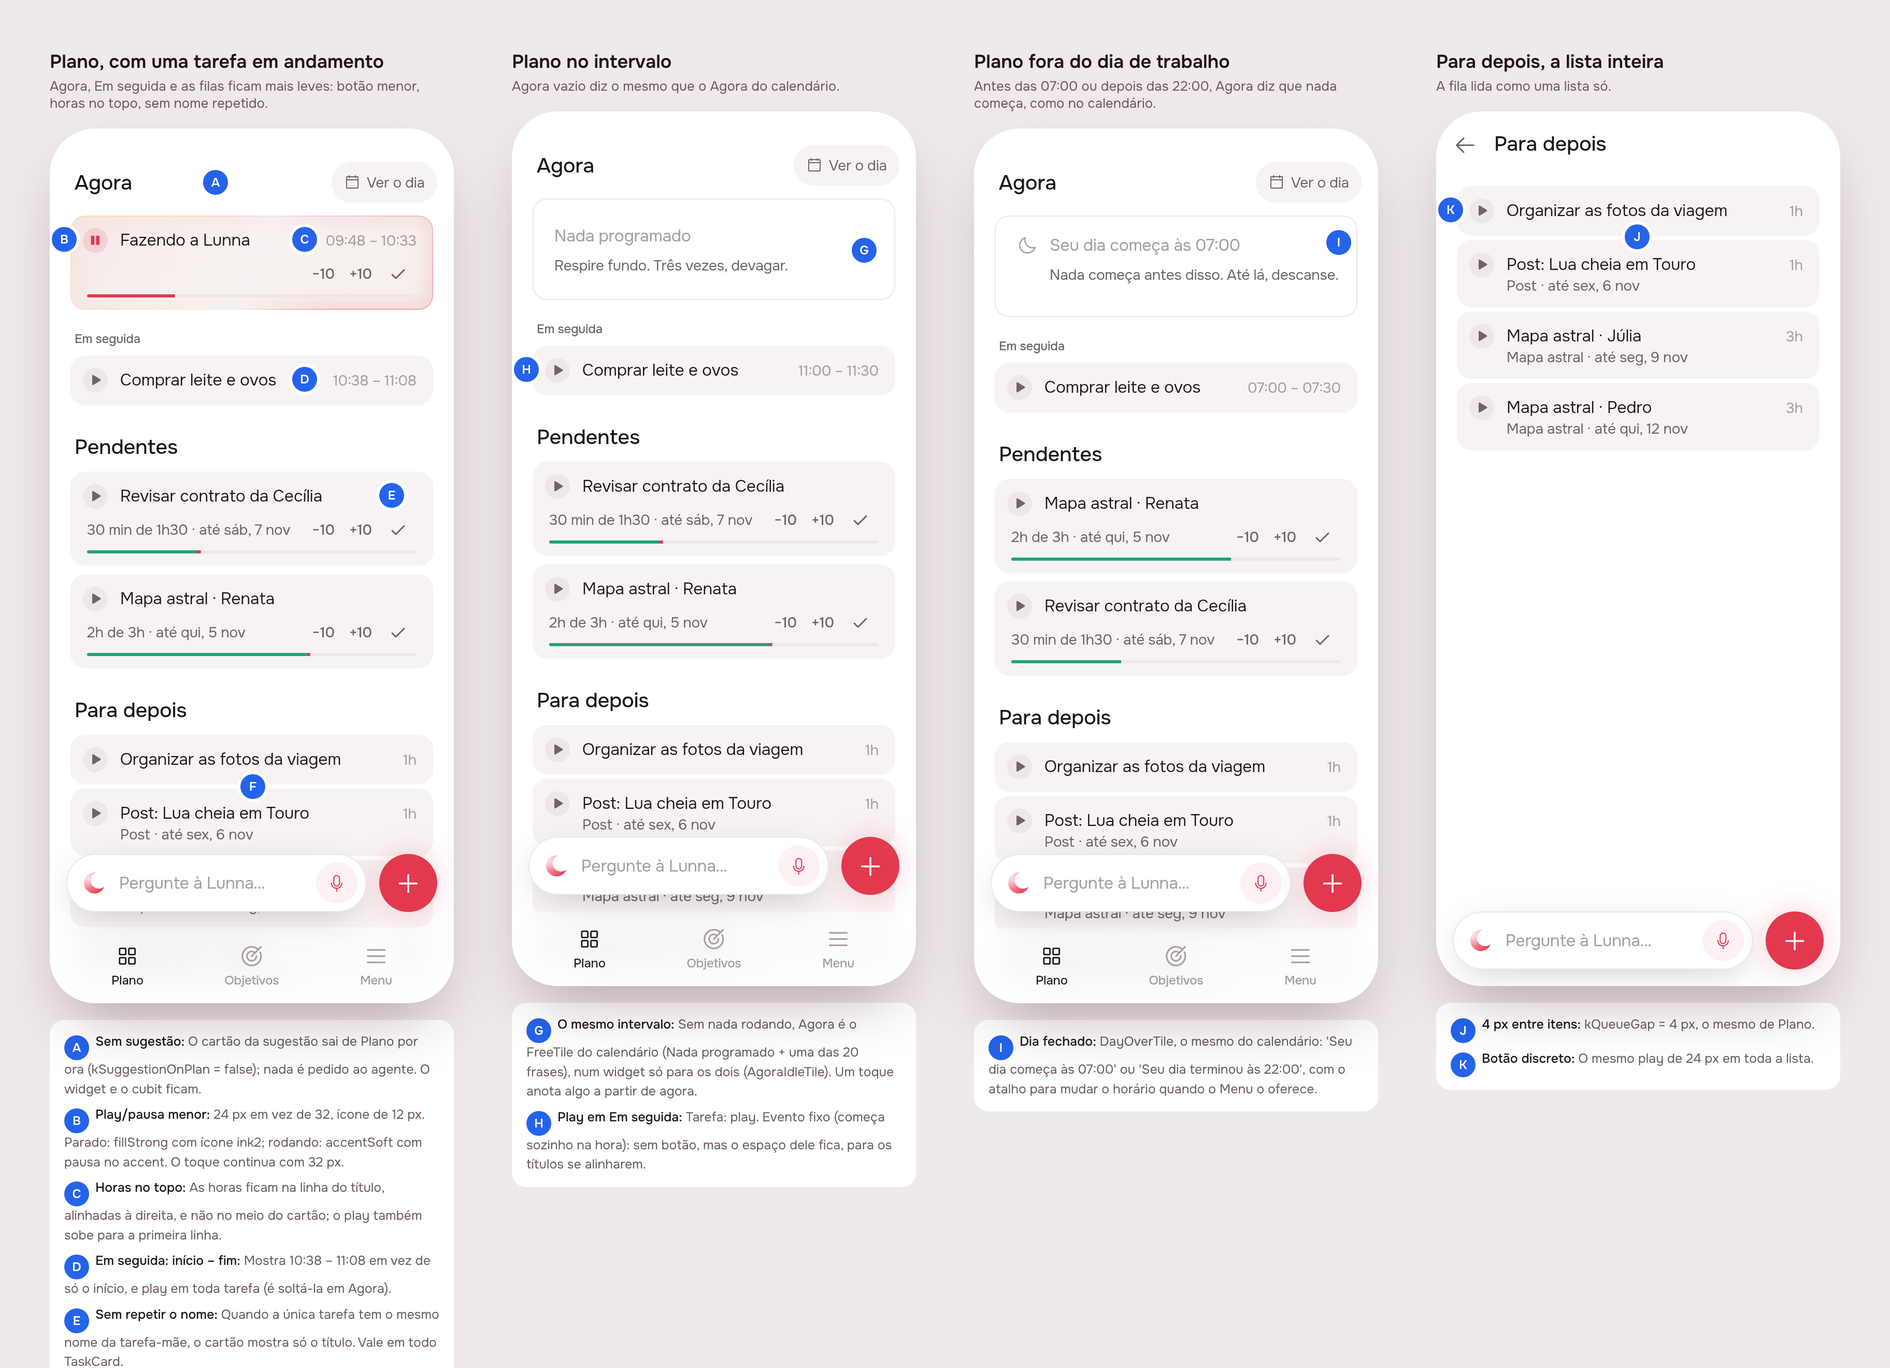
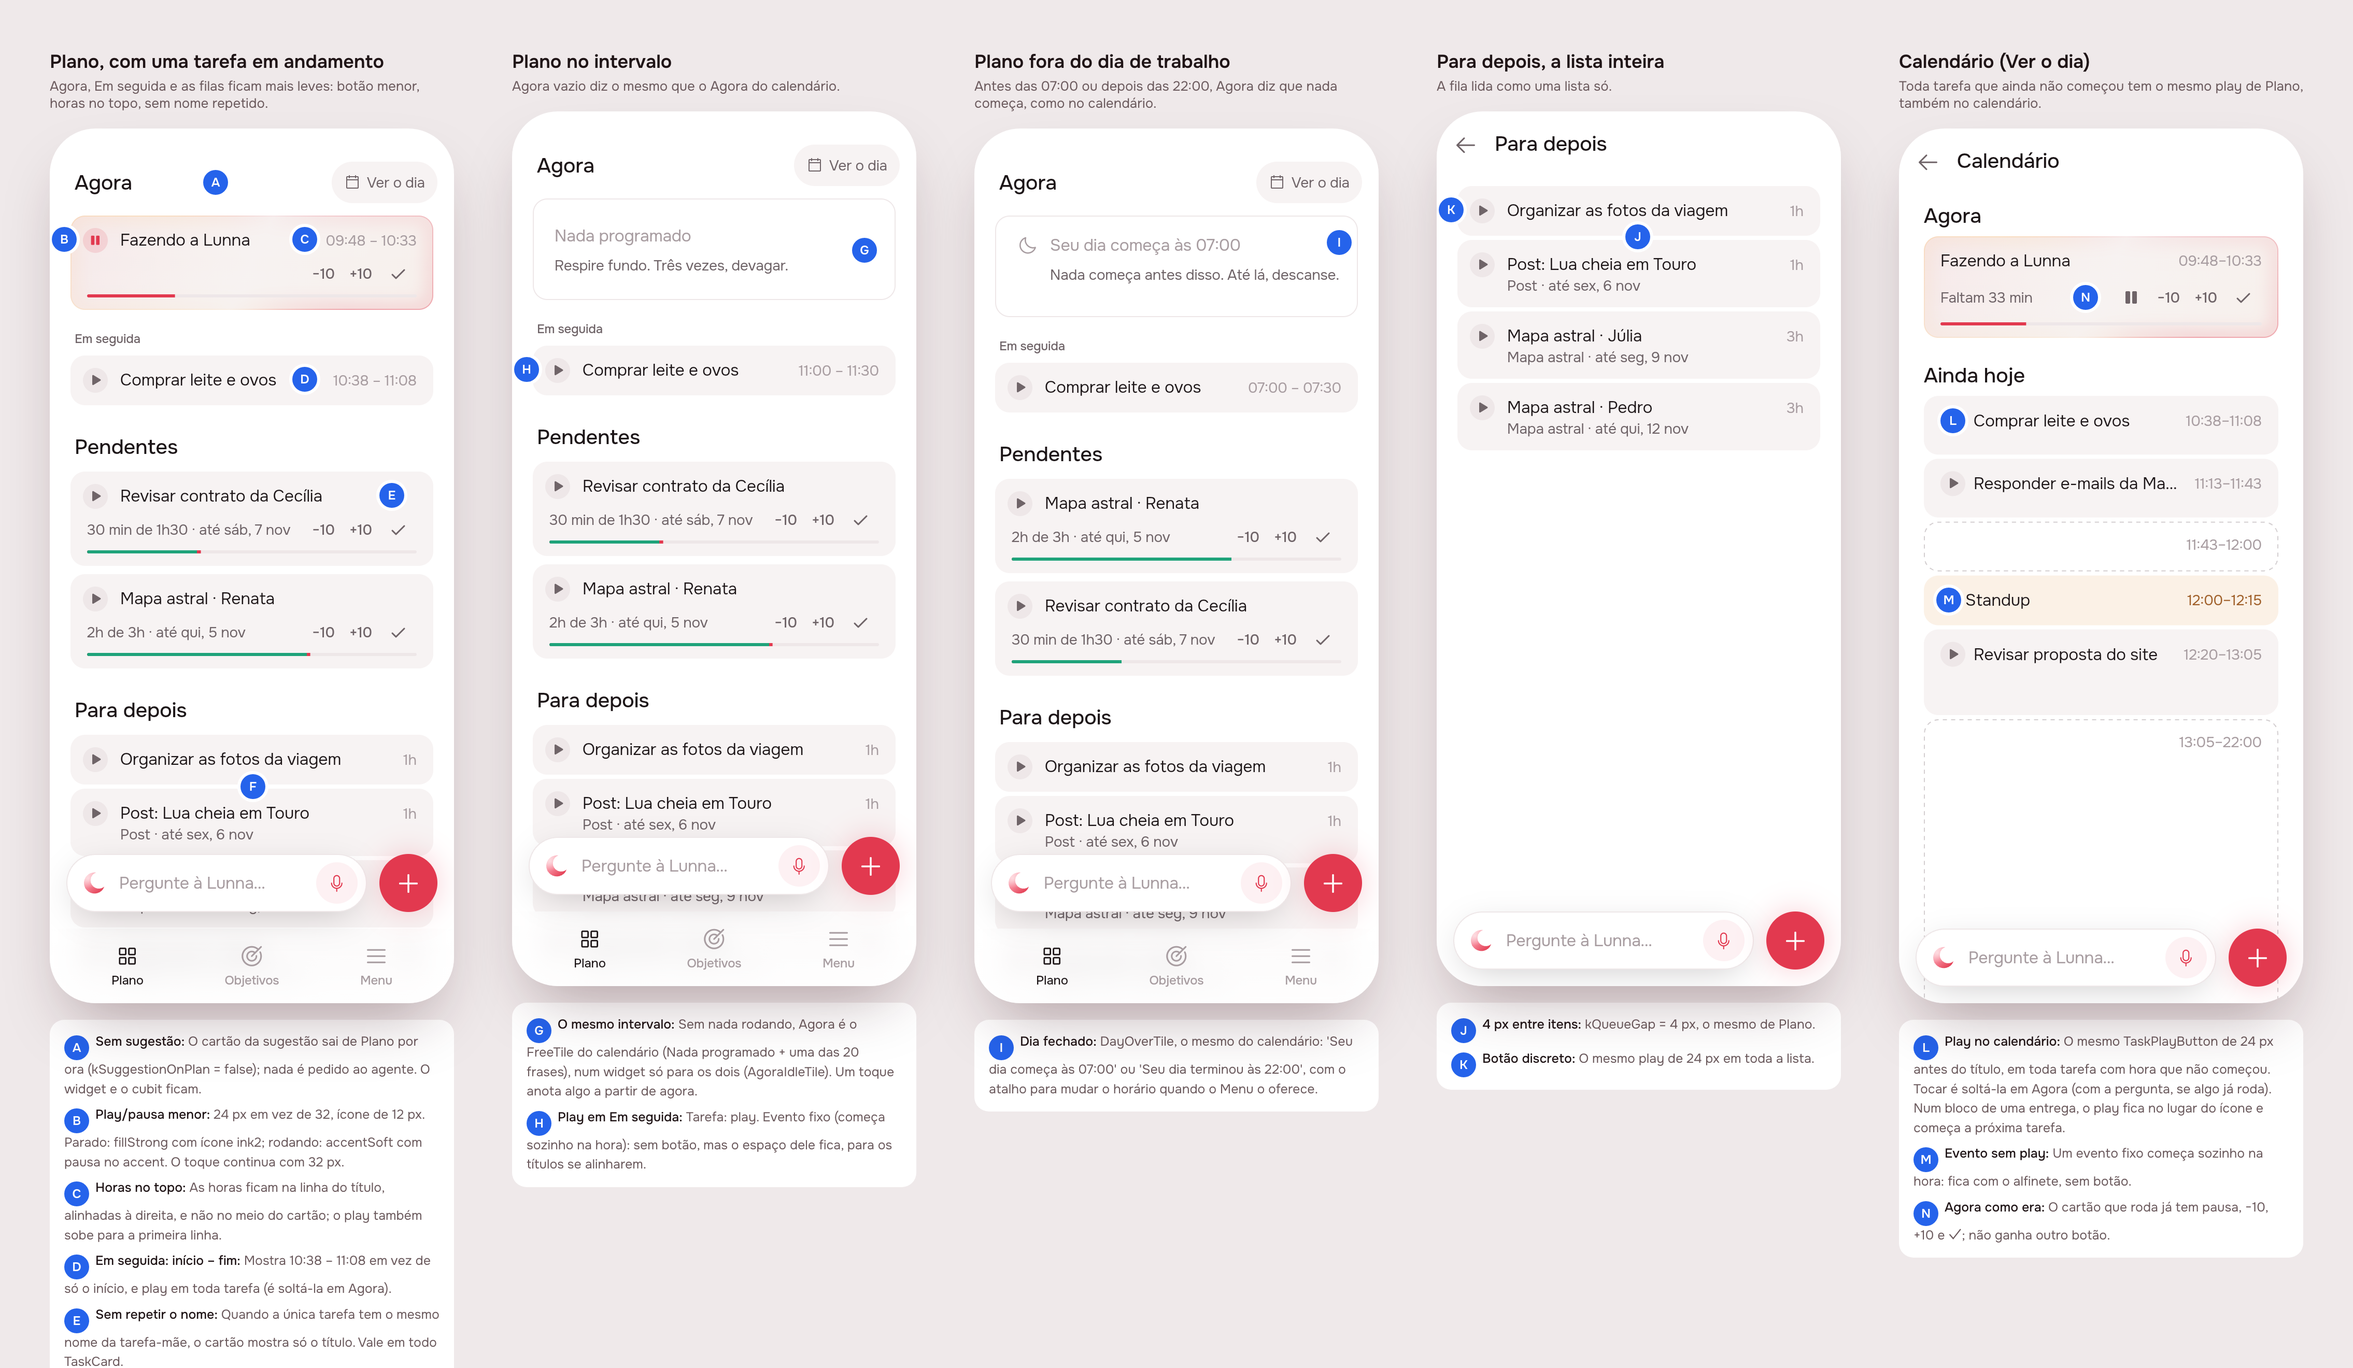
create(#79): revise · Improve UX and UI: Part 1

diff --git a/app/lib/ux_part_1_preview.dart b/app/lib/ux_part_1_preview.dart
@@ -16,7 +16,8 @@ import 'package:timeline/timeline.dart';
 /// Preview of #79 (UX and UI, part 1), on fakes. Not committed.
 ///
 /// `?s=1` Plano with a task running; `?s=2` Plano on the break; `?s=3`
-/// Plano before the working day opens; `?s=4` Para depois whole.
+/// Plano before the working day opens; `?s=4` Para depois whole; `?s=5`
+/// the calendar (Ver o dia) with a task running, play on what is next.
 void main() {
   final scene = int.tryParse(Uri.base.queryParameters['s'] ?? '') ?? 1;
   final today = DateTime.now();
@@ -65,7 +66,7 @@ class _FakesState extends State<_Fakes> {
   late final DemoTimelineRepository _timeline = () {
     final repo = DemoTimelineRepository(
       context.l10n,
-      resting: widget.scene != 1,
+      resting: widget.scene != 1 && widget.scene != 5,
     );
     // On the break, nothing waits at this minute: the groceries keep an
     // hour of their own, at eleven.
@@ -76,6 +77,23 @@ class _FakesState extends State<_Fakes> {
           'mercado',
           0,
           after: DateTime(now.year, now.month, now.day, 11),
+        ),
+      );
+    }
+    // On the calendar, a few more tasks queued after the groceries.
+    if (widget.scene == 5) {
+      unawaited(
+        repo.createTask(
+          title: 'Responder e-mails da Marina',
+          minutes: 30,
+          placement: const Placement.queue(99),
+        ),
+      );
+      unawaited(
+        repo.createTask(
+          title: 'Revisar proposta do site',
+          minutes: 45,
+          placement: const Placement.queue(99),
         ),
       );
     }
@@ -161,7 +179,11 @@ class _FakesState extends State<_Fakes> {
             ),
           ),
         ],
-        child: widget.scene == 4 ? const LaterPage() : const _Plano(),
+        child: switch (widget.scene) {
+          4 => const LaterPage(),
+          5 => const _Day(),
+          _ => const _Plano(),
+        },
       ),
     );
   }
@@ -190,6 +212,28 @@ class _Plano extends StatelessWidget {
           AppBottomBarItem(iconData: AppIcons.menu, label: l10n.shellMenuTab),
         ],
       ),
+    );
+  }
+}
+
+class _Day extends StatelessWidget {
+  const _Day();
+
+  @override
+  Widget build(BuildContext context) {
+    final l10n = context.l10n;
+    return Scaffold(
+      appBar: AppBar(
+        leading: AppIconButton(iconData: AppIcons.back, onPressed: () {}),
+        titleSpacing: 0,
+        title: Text(l10n.dayPageTitle, style: AppTypography.title),
+      ),
+      body: TimelineList(onCardTap: (_) {}, onDeliveryTap: (_) {}),
+      floatingActionButton: AskDock(
+        fab: AppFab(tooltip: l10n.shellWriteDown, onPressed: () {}),
+      ),
+      floatingActionButtonLocation: AskDock.location,
+      floatingActionButtonAnimator: AskDock.animator,
     );
   }
 }

diff --git a/app/packages/timeline/lib/src/widgets/event_tile.dart b/app/packages/timeline/lib/src/widgets/event_tile.dart
@@ -5,6 +5,7 @@ import 'package:timeline/src/models/models.dart';
 import 'package:timeline/src/widgets/checklist.dart';
 import 'package:timeline/src/widgets/format.dart';
 import 'package:timeline/src/widgets/now_surface.dart';
+import 'package:timeline/src/widgets/task_card.dart';
 
 /// {@template event_tile}
 /// One card on the timeline: a block of time.
@@ -38,9 +39,15 @@ import 'package:timeline/src/widgets/now_surface.dart';
 /// a line per item, every item one under another. Agora draws the next one
 /// alone. Items are ticked off on the block's own page.
 ///
-/// It carries no gestures of its own. Tapping and dragging on the timeline
-/// are read by one listener over the whole list, which tells each card how it
-/// is being touched through [pressed], [hidden], and [lifted].
+/// A task on the calendar that has not begun draws the play button
+/// before its title ([onPlay]), the same small one as Plano's: playing it
+/// is letting it go on Agora. An event has none, since it begins at its
+/// hour by itself.
+///
+/// It carries no gestures of its own but that button. Tapping and dragging
+/// on the timeline are read by one listener over the whole list, which
+/// tells each card how it is being touched through [pressed], [hidden], and
+/// [lifted].
 /// {@endtemplate}
 class EventTile extends StatelessWidget {
   /// {@macro event_tile}
@@ -57,6 +64,7 @@ class EventTile extends StatelessWidget {
     this.onDone,
     this.onStarted,
     this.onSnoozed,
+    this.onPlay,
     super.key,
   });
 
@@ -107,6 +115,11 @@ class EventTile extends StatelessWidget {
 
   /// Gives a waiting block fifteen minutes more.
   final VoidCallback? onSnoozed;
+
+  /// Begins it from the calendar: drawn as [TaskPlayButton] before the
+  /// title, under [actionsKey], on a card that is not on Agora (which has
+  /// its own controls).
+  final VoidCallback? onPlay;
 
   /// Whether this is the block being lived through.
   bool get _isNow => card.section == TimelineSection.agora;
@@ -182,6 +195,14 @@ class EventTile extends StatelessWidget {
         children: [
           Row(
             children: [
+              if (onPlay != null && !_isNow) ...[
+                TaskPlayButton(
+                  key: actionsKey,
+                  playing: false,
+                  onPressed: onPlay,
+                ),
+                const SizedBox(width: AppSpacing.s2),
+              ],
               // The mark comes before the title, where it reads as "this one
               // is a meeting" or "this one is pinned", rather than after it,
               // where it would read as a status the block had earned.

diff --git a/app/packages/timeline/lib/src/widgets/delivery_tile.dart b/app/packages/timeline/lib/src/widgets/delivery_tile.dart
@@ -7,6 +7,7 @@ import 'package:timeline/src/models/models.dart';
 import 'package:timeline/src/widgets/event_tile.dart';
 import 'package:timeline/src/widgets/format.dart';
 import 'package:timeline/src/widgets/now_surface.dart';
+import 'package:timeline/src/widgets/task_card.dart';
 
 /// {@template delivery_tile}
 /// A run of one delivery's tasks, drawn as one card: the delivery is the
@@ -53,6 +54,7 @@ class DeliveryTile extends StatelessWidget {
     this.onDone,
     this.onStarted,
     this.onSnoozed,
+    this.onPlay,
     super.key,
   });
 
@@ -108,6 +110,10 @@ class DeliveryTile extends StatelessWidget {
   /// Gives the task waiting in Agora fifteen minutes more.
   final VoidCallback? onSnoozed;
 
+  /// Begins the run's next task, from the calendar: a play button in place
+  /// of the delivery's mark, under [actionsKey]. Not drawn on Agora.
+  final VoidCallback? onPlay;
+
   bool get _isNow => tasks.first.section == TimelineSection.agora;
 
   TimelineEvent get _next => tasks.first;
@@ -136,6 +142,14 @@ class DeliveryTile extends StatelessWidget {
                   )
                 : '${hhmm(_next.startTime)}–${hhmm(tasks.last.endTime)}',
             routine: routine,
+            // On the calendar, play begins the run's next task.
+            play: _isNow || onPlay == null
+                ? null
+                : TaskPlayButton(
+                    key: actionsKey,
+                    playing: false,
+                    onPressed: onPlay,
+                  ),
           ),
           const SizedBox(height: AppSpacing.s1),
           if (height == null)
@@ -277,22 +291,27 @@ class _Head extends StatelessWidget {
     required this.title,
     required this.hours,
     required this.routine,
+    this.play,
   });
 
   final String title;
   final String hours;
   final bool routine;
 
+  /// The play button, drawn in place of the mark.
+  final Widget? play;
+
   @override
   Widget build(BuildContext context) {
     final quiet = routine ? AppColors.routineInk : AppColors.ink3;
     return Row(
       children: [
-        AppIcon(
-          iconData: routine ? AppIcons.repeat : AppIcons.artifacts,
-          size: AppSpacing.s4,
-          color: quiet,
-        ),
+        play ??
+            AppIcon(
+              iconData: routine ? AppIcons.repeat : AppIcons.artifacts,
+              size: AppSpacing.s4,
+              color: quiet,
+            ),
         const SizedBox(width: AppSpacing.s2),
         Expanded(
           child: Text(

diff --git a/app/packages/timeline/test/timeline_list_test.dart b/app/packages/timeline/test/timeline_list_test.dart
@@ -1150,6 +1150,64 @@ void main() {
   });
 
   group('the calendar', () {
+    testAt('play on a task later in the day begins it, as a drop on Agora', (
+      tester,
+    ) async {
+      final (bloc, tapped) = await pump(tester, [running, later]);
+
+      // Agora has its own controls; the later task has the one play.
+      final play = find.byType(TaskPlayButton);
+      expect(play, findsOneWidget);
+      await tester.tap(play);
+      await tester.pump(const Duration(milliseconds: 400));
+
+      verify(
+        () => bloc.add(const EventMoved(id: 'b', index: 0, start: true)),
+      ).called(1);
+      expect(tapped, isEmpty);
+    });
+
+    testAt('an event has no play: it begins at its hour', (tester) async {
+      final meeting = TimelineEvent(
+        id: 'm',
+        title: 'Reunião',
+        section: TimelineSection.dia,
+        startTime: now.add(const Duration(minutes: 30)),
+        endTime: now.add(const Duration(minutes: 60)),
+        durationMinutes: 30,
+        kind: CardKind.event,
+        fixed: true,
+      );
+      await pump(tester, [running, meeting]);
+
+      expect(find.byType(TaskPlayButton), findsNothing);
+    });
+
+    testAt('play on a delivery run begins its next task', (tester) async {
+      TimelineEvent step(String id, int from) => TimelineEvent(
+        id: id,
+        title: 'Passo $id',
+        section: TimelineSection.dia,
+        startTime: now.add(Duration(minutes: from)),
+        endTime: now.add(Duration(minutes: from + 30)),
+        durationMinutes: 30,
+        artifactId: 'site',
+        artifactTitle: 'Site da Ana',
+      );
+      final (bloc, _) = await pump(tester, [
+        running,
+        step('s1', 25),
+        step('s2', 60),
+      ]);
+
+      await tester.tap(find.byType(TaskPlayButton));
+      await tester.pump(const Duration(milliseconds: 400));
+
+      verify(
+        () => bloc.add(const EventMoved(id: 's1', index: 0, start: true)),
+      ).called(1);
+    });
+
     testAt('heads a day past tomorrow with its weekday and date', (
       tester,
     ) async {

diff --git a/app/packages/timeline/lib/src/view/timeline_list.dart b/app/packages/timeline/lib/src/view/timeline_list.dart
@@ -2327,8 +2327,20 @@ class _TimelineListState extends State<TimelineList> {
       onDone: () => bloc.add(EventFinished(card.id)),
       onStarted: () => bloc.add(EventStarted(card.id)),
       onSnoozed: () => bloc.add(EventSnoozed(card.id)),
+      onPlay: _plays(card) ? () => _now(card) : null,
     );
   }
+
+  /// Whether [card] draws a play button: a task with an hour, on the
+  /// calendar, that has not begun and is not on Agora. Playing it is
+  /// letting it go on Agora ([_now]), guard and all.
+  bool _plays(TimelineEvent card) =>
+      !_isList &&
+      card.isTask &&
+      card.isInteractive &&
+      !card.started &&
+      !card.isBacklog &&
+      card.section != TimelineSection.agora;
 
   /// The free stretches as they are drawn, each under its heading.
   ///
@@ -2459,6 +2471,9 @@ class _TimelineListState extends State<TimelineList> {
       height: height,
       lineKeys: keys,
       hidden: dragging,
+      actionsKey: _actionKeys.putIfAbsent(lead.id, GlobalKey.new),
+      // Play begins the run's next task, as it does on Plano.
+      onPlay: _plays(lead) ? () => _now(lead) : null,
     );
   }
 

diff --git a/product/delivery/2026-11-03-ux-part-1/README.md b/product/delivery/2026-11-03-ux-part-1/README.md
@@ -17,6 +17,10 @@ UI: Part 1*:
 > - Disable suggestions for now (we will come to that later)
 > - Make the items in the queue with less spacing between each other
 
+The design was reviewed on the issue, and the person replied:
+
+> We should also have play buttons on calendar view
+
 ## 2. The design
 
 ![The board](img/mockup-board.png)
@@ -25,7 +29,8 @@ Drawn by the real app (Lunna) through `app/lib/ux_part_1_preview.dart`,
 on the demo's fakes; the pins are in [board.json](board.json). Screens:
 [1](img/mockup-1.png) a task running, [2](img/mockup-2.png) the break,
 [3](img/mockup-3.png) before the working day, [4](img/mockup-4.png) Para
-depois whole.
+depois whole, [5](img/mockup-5.png) the calendar (Ver o dia), added after
+the review.
 
 **References** (from known patterns; Mobbin was not browsed in this
 session): Structured's timeline rows (hours on the title's line, a small
@@ -43,6 +48,9 @@ doesn't compete with the title.
 | E | Repeated name | `TaskCard` drops a subtitle that only repeats the title (trimmed, case-insensitive). A delivery whose one task is itself shows its name once, everywhere the card is drawn. |
 | G | Agora empty | The calendar's break, the same widget: `AgoraIdleTile` (new, in `timeline`) is `FreeTile(now: true)` from now to the next card (*Nada programado* and one of the twenty lines), and a tap writes a task from now. Lista's break now draws through it too, so the two can't drift. Replaces *Nada em andamento*. |
 | I | Agora outside the day | `DayOverTile`, the calendar's: *Seu dia começa às 07:00* / *terminou às 22:00*, with the Menu's hours when the shell offers them (`OpenDayHours`). |
+| L | Play on the calendar | Every task with an hour that has not begun draws the same 24 px `TaskPlayButton` before its title (`EventTile.onPlay`). A tap is a drop on Agora (`EventMoved(start: true)`), so with something running it asks first (`GuardSheet`). A delivery's block on the calendar draws it in place of the folders and plays its next task (`DeliveryTile.onPlay`). Tapping it never opens the card nor starts a drag (it sits under the card's `actionsKey`). |
+| M | Events on the calendar | No play: an event begins at its hour. The pin stays; no empty slot is kept, since calendar cards are not a column of titles. |
+| N | Agora on the calendar | Unchanged: the running card already has pause, −10, +10 and ✓. |
 | F, J | Queue spacing | 4 px between Para depois's cards (was 8), on Plano and on its page (`kQueueGap`). Agora, Em seguida and Pendentes keep 8. |
 
 What Agora draws when something is in it was already the calendar's:
@@ -60,6 +68,12 @@ overtime to `EventTile`. The difference was only the empty state.
   while running, a 14 % tint instead), since "more discrete" read as both.
 - **The repeated-name rule lives in `TaskCard`**, not in each caller, so
   Pendentes, Agora, Em seguida and Para depois all follow it.
+- **Play on the calendar is for tasks not begun, off Agora and off the
+  backlog** (`_plays` in `timeline_list.dart`): the same set a nudge
+  reads. Lista (only the landing's demo draws it) gets none; the card in
+  the air while dragged draws none either.
+- **An event on the calendar keeps no empty play slot** (unlike Em
+  seguida's `keepPlaySlot`): its pin already sits where the button would.
 - **Suggestions are switched off on Plano only**: the landing's demo
   keeps its offer (it is the agent's chapter), and the server keeps
   making suggestions (`SuggestionTimer` still fires; nobody sees them).
@@ -82,7 +96,16 @@ session; the queue commits them):
 - `app/lib/plan/view/plan_items.dart`: `kQueueGap`;
   `app/lib/plan/view/later_page.dart` uses it.
 - `app/test/plan/home_page_test.dart`: the empty day expects `FreeTile`.
-- `app/lib/ux_part_1_preview.dart`: the preview entry point (scenes 1–4);
+- After the review (play on the calendar):
+  `app/packages/timeline/lib/src/widgets/event_tile.dart` (`onPlay`, the
+  button before the title), `delivery_tile.dart` (`onPlay`, in `_Head`
+  in place of the mark), `view/timeline_list.dart` (`_plays`, wired in
+  `_tile` and `_calendarRun`), and three tests in
+  `test/timeline_list_test.dart` (play begins a task without opening it,
+  none on an event, a delivery block plays its next task). The timeline
+  package's list, run and preview tests pass (86).
+- `app/lib/ux_part_1_preview.dart`: the preview entry point (scenes 1–5,
+  5 being the calendar with two more queued tasks);
   delete it in Phase 4.
 
 **What the build must still do** (app only; nothing on the server):
@@ -99,7 +122,11 @@ session; the queue commits them):
    `DayOverTile` outside the working day.
 4. Check that the smaller button still reads on Focus (lime `accentSoft`
    on dark) in the build prints, and on Agora's `NowSurface` glow.
-5. AGENTS.md "The app shell" says Plano opens with "the agent's one
+5. AGENTS.md "The timeline" (Calendário) and `product/spec/home.md`:
+   say a task not begun on the calendar has play, a drop on Agora.
+6. Shoot the calendar in both brands (scene 5) and check the button on
+   Focus's dark fill and on a routine's or a short (30 min) card.
+7. AGENTS.md "The app shell" says Plano opens with "the agent's one
    offer": say it is off for now (`kSuggestionOnPlan`), and point
    `product/spec/home.md` at the same.
 
